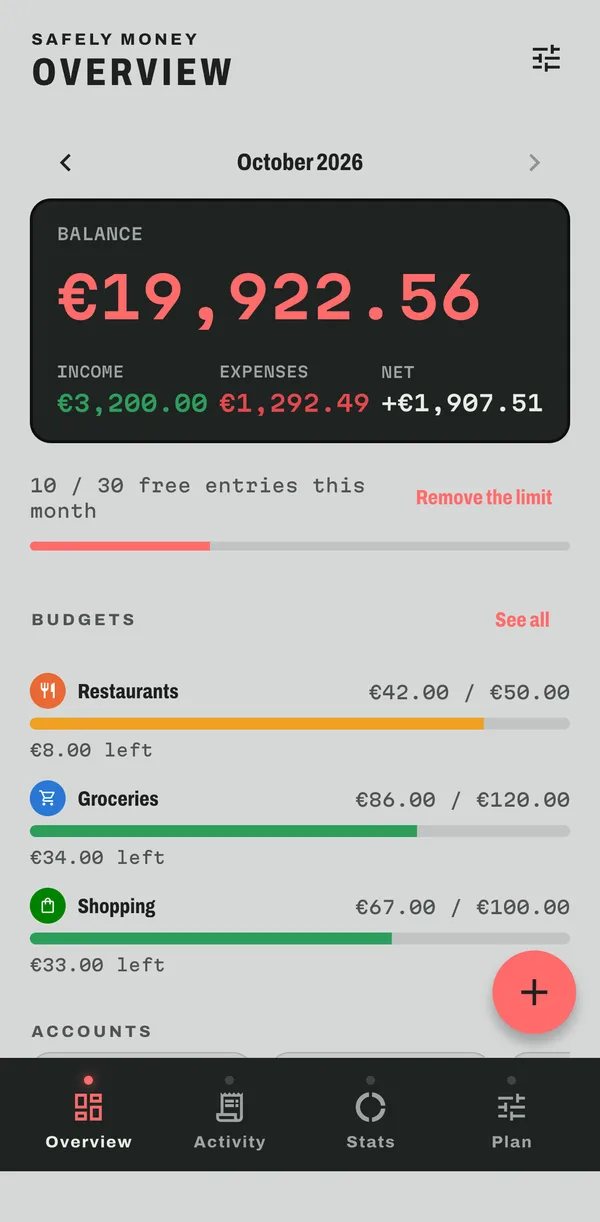
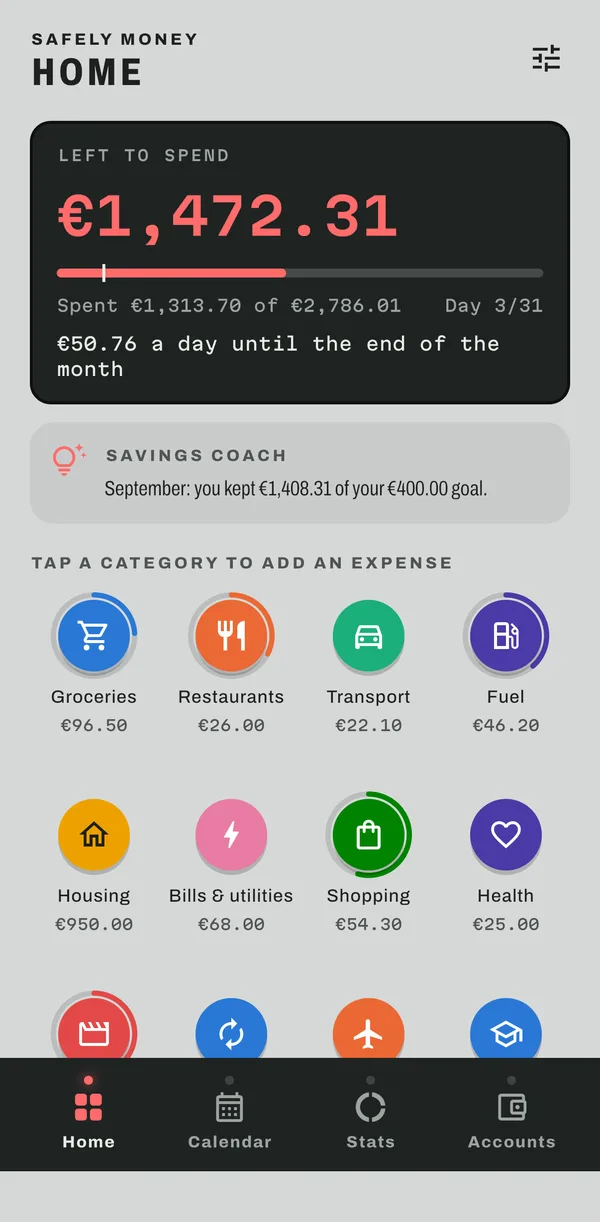
Money v2: left to spend, category keys, savings coach

diff --git a/index.html b/index.html
@@ -221,11 +221,11 @@
       <article class="module wide" id="money" style="--c:var(--coral)">
         <div class="id"><img src="img/key-money.png" alt=""><div><h3>Safely Money</h3><p class="tag">Expenses, budgets and reminders</p></div></div>
         <ul>
-          <li>Add an expense or income in seconds</li>
-          <li>Accounts, categories, monthly budgets and charts</li>
-          <li>Recurring payments and reminders. No bank link.</li>
+          <li>What's left to spend this month, and how much per day</li>
+          <li>Log an expense in two taps on a category key</li>
+          <li>A savings coach with Pro. No bank link.</li>
         </ul>
-        <div class="shot"><img src="img/money.webp" alt="Safely Money overview: balance, income and expenses, budgets by category" loading="lazy"></div>
+        <div class="shot"><img src="img/money.webp" alt="Safely Money home: left to spend, the savings coach and the category keys" loading="lazy"></div>
       </article>
 
       <article class="module wide" id="scan" style="--c:var(--blue)">
@@ -290,7 +290,7 @@
       <div>
         <p class="eyebrow">Safely Pro</p>
         <h2 id="pro-title">Pay once.<br>Unlock it all.</h2>
-        <p>One purchase in each app removes the ads, unlocks every style and color, and opens that app's pro tools: scientific mode, unlimited history, searchable PDFs, unlimited entries.</p>
+        <p>One purchase in each app removes the ads, unlocks every style and color, and opens that app's pro tools: scientific mode, unlimited history, searchable PDFs, the savings coach.</p>
         <p class="price">One-time purchase · No subscription</p>
       </div>
       <div class="swatches" aria-hidden="true">
